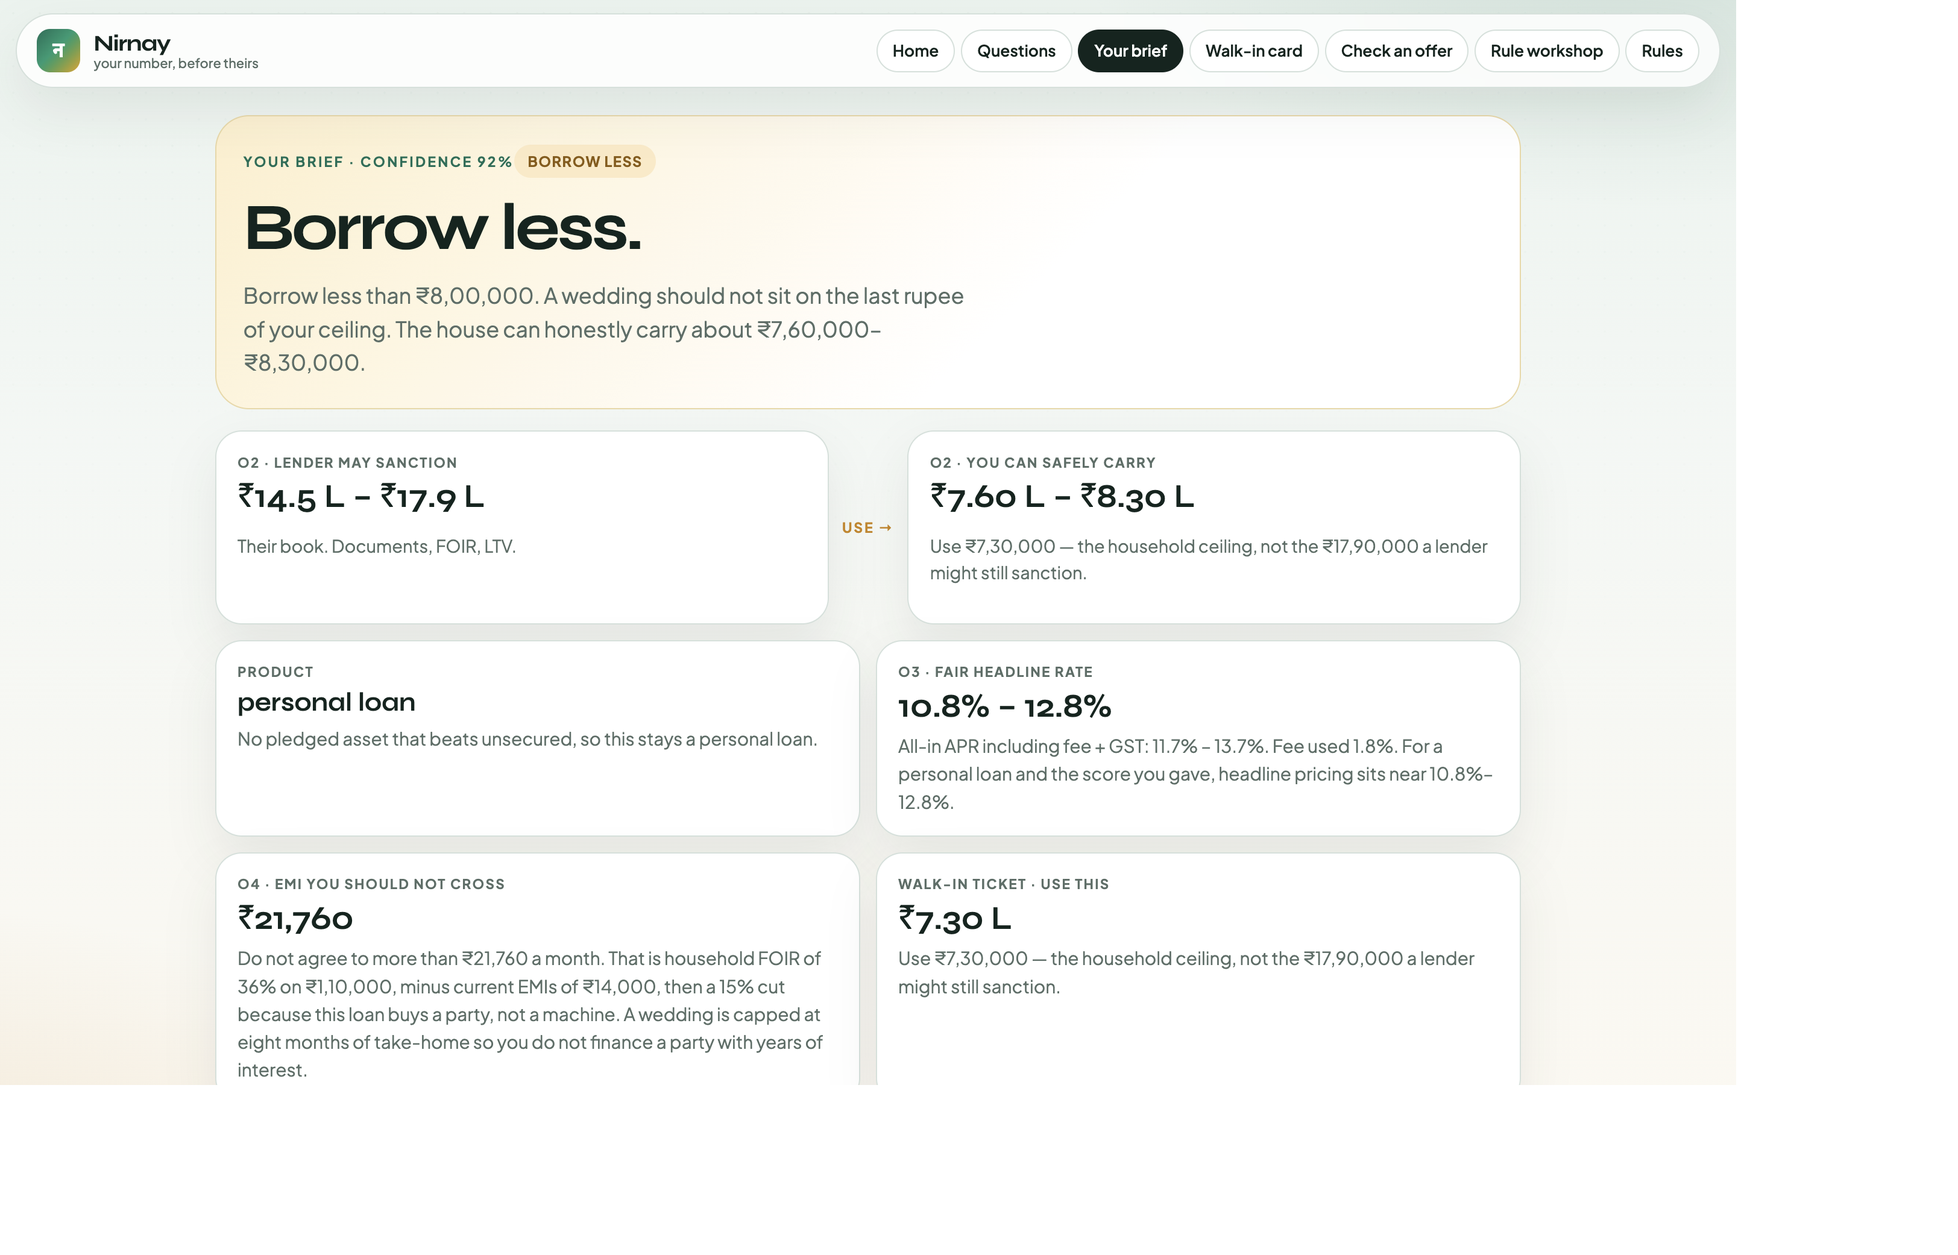
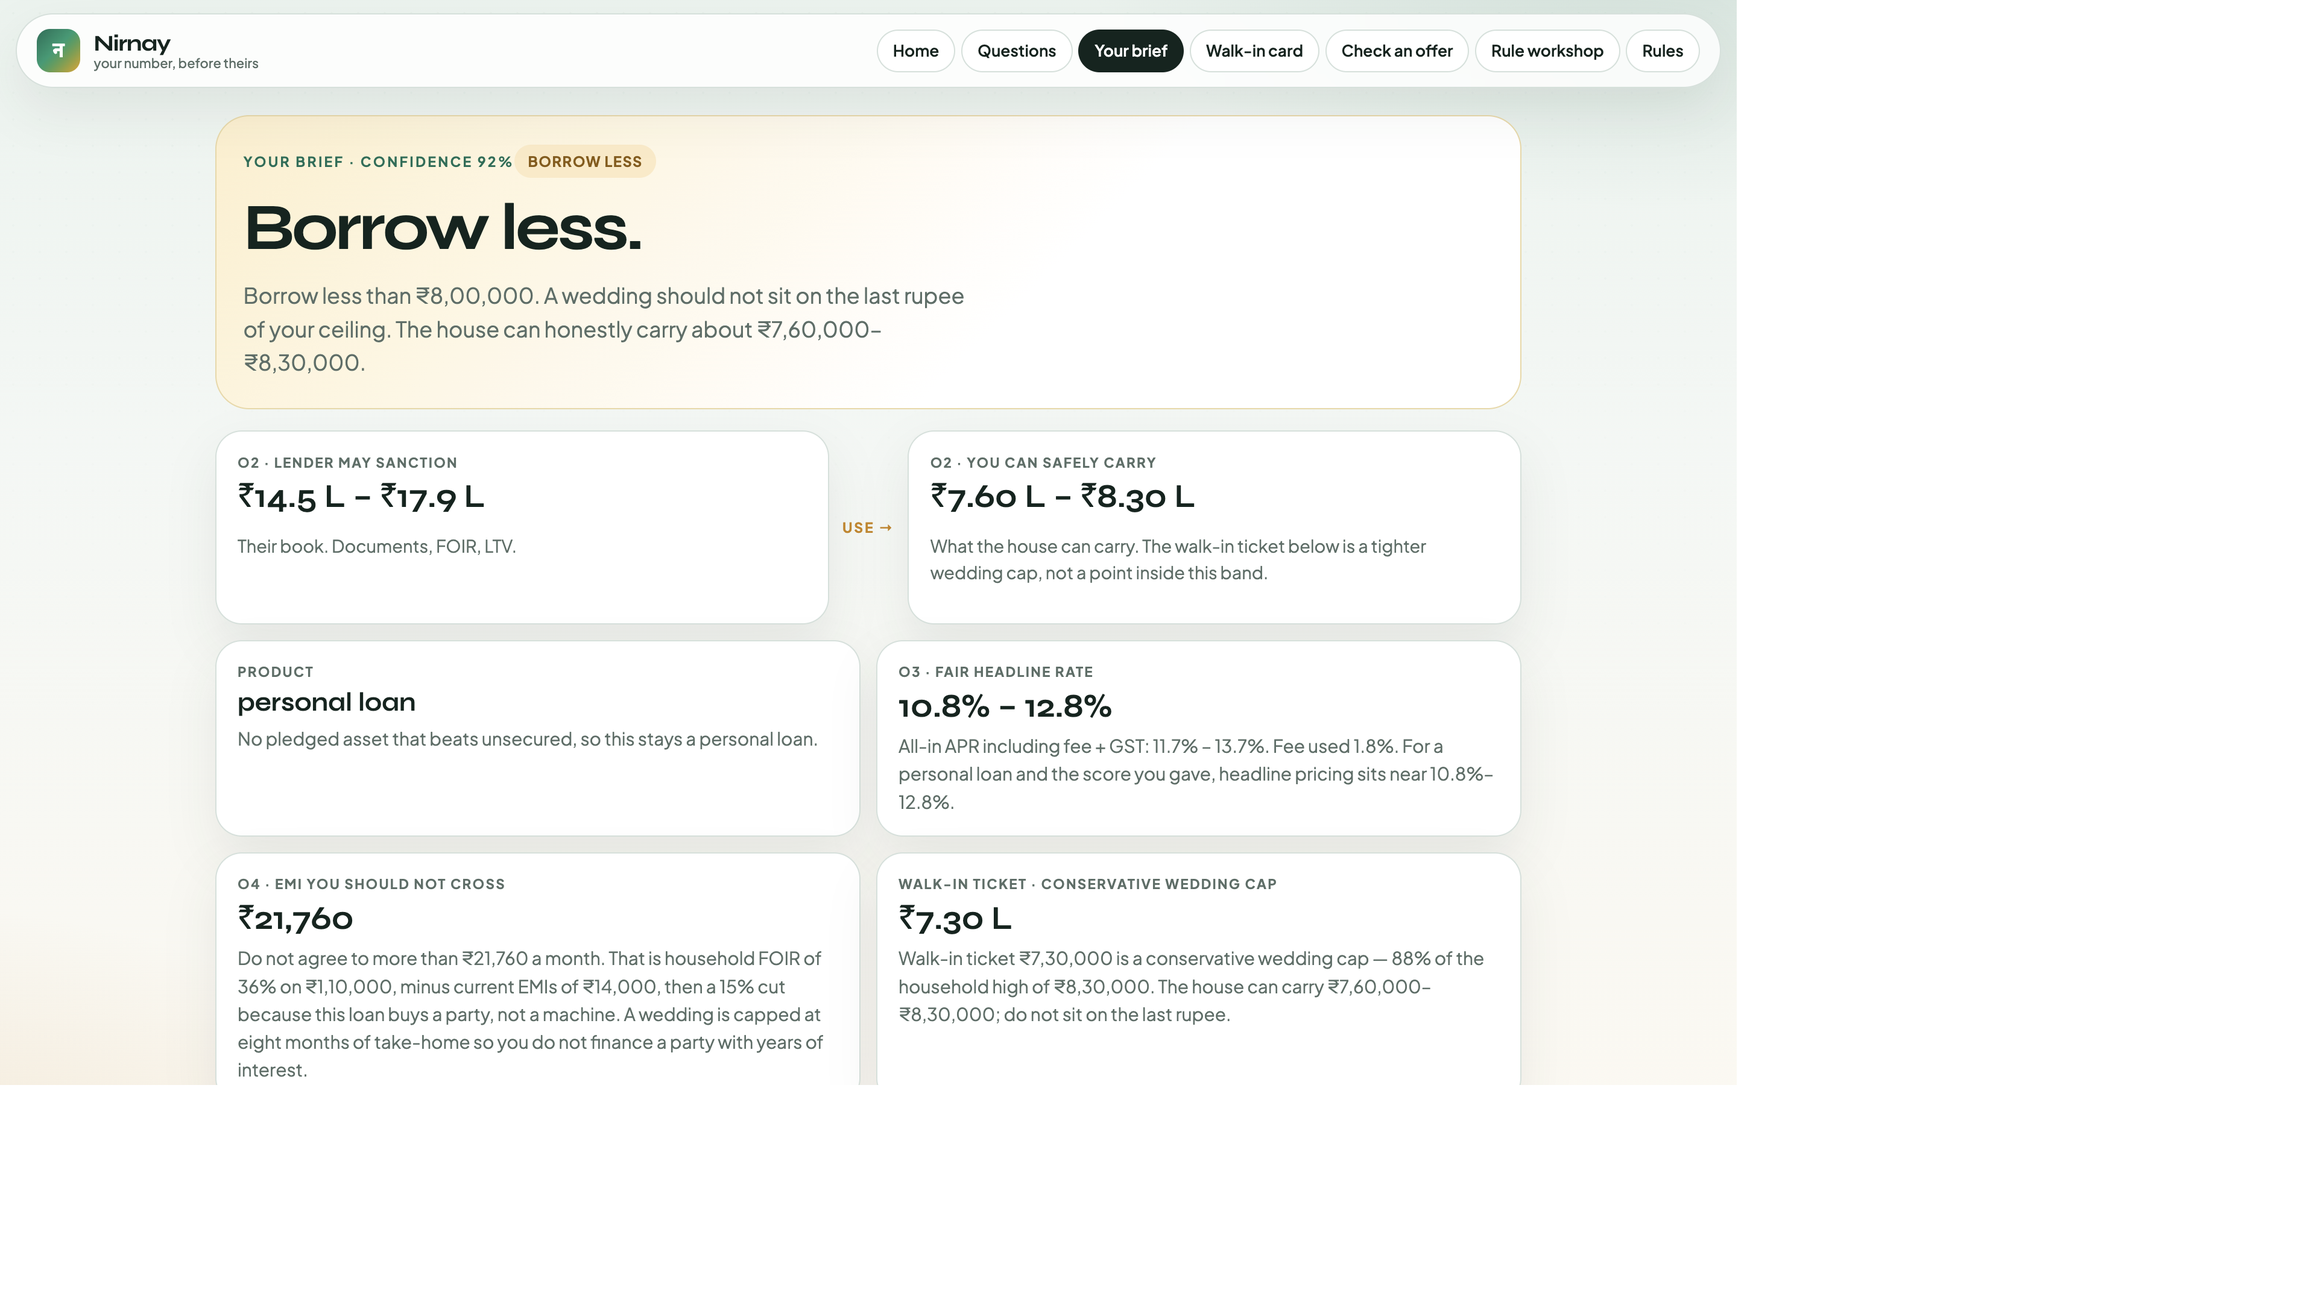
Label Priya’s walk-in ticket as a wedding cap and drop invented Ravi assumptions.
The household band and the conservative ticket were being read as the same number, and Ravi’s demo file had claimed GST registration and a co-applicant the brief never stated.

diff --git a/public/walkthrough.html b/public/walkthrough.html
@@ -3,7 +3,7 @@
   <head>
     <meta charset="UTF-8" />
     <meta name="viewport" content="width=device-width, initial-scale=1" />
-    <title>Nirnay — five-minute walkthrough</title>
+    <title>Nirnay — five-minute guided walkthrough</title>
     <style>
       :root { --ink: #12241f; --muted: #5b6e68; --bg: #eef6f1; }
       * { box-sizing: border-box; }
@@ -23,7 +23,7 @@
   </head>
   <body>
     <header>
-      <h1>Nirnay · five-minute walkthrough</h1>
+      <h1>Nirnay · five-minute guided walkthrough</h1>
       <div class="row">
         <a href="./">Open the live app</a>
       </div>
@@ -44,7 +44,7 @@
         { src: "./screenshots/01-home.png", k: "0:00 · Home", c: "Four outputs in plain words. No login. Open Priya, Ravi or Anita, or start the self-check." },
         { src: "./screenshots/02-questions.png", k: "0:30 · Must questions", c: "Nine must questions. One at a time. A salaried engineer and a kirana owner do not see the same list." },
         { src: "./screenshots/03-extras.png", k: "1:10 · Optional extras", c: "Each extra moves a number. Skip one, or skip the rest. Silence keeps the band wide. It is not a zero." },
-        { src: "./screenshots/04-brief-priya.png", k: "1:50 · Priya · O1–O4", c: "Borrow less. Lender may sanction ₹14–18L. She should use ₹7.3L. Fair rate 10.8–12.8%. EMI ceiling ₹21,760." },
+        { src: "./screenshots/04-brief-priya.png", k: "1:50 · Priya · O1–O4", c: "Borrow less. Lender may sanction ₹14–18L. The house can carry ₹7.6–8.3L; ₹7.3L is a conservative wedding cap below that band. Fair rate 10.8–12.8%. EMI ceiling ₹21,760." },
         { src: "./screenshots/05-card.png", k: "2:30 · Walk-in card", c: "The sentence she holds up at the desk: fair band, APR with fee, ticket, EMI ceiling." },
         { src: "./screenshots/06-offer.png", k: "3:00 · Offer checker", c: "They quote 14%. The checker says a bit high. Ask them to match 12.8% on the Key Facts Statement." },
         { src: "./screenshots/08-brief-ravi.png", k: "3:25 · Ravi", c: "He asked for a personal loan. The file becomes a loan against the shop. Unknown score is a wide band, not 300." },

diff --git a/src/domain/assess.ts b/src/domain/assess.ts
@@ -68,7 +68,7 @@ export function recogniseIncome(a: Answers, knobs: Knobs = defaultKnobs()): {
   whyHousehold: string;
 } {
   const spouse = a.spouseIncome ?? 0;
-  const co = a.coApplicant === true || (a.coApplicant == null && spouse > 0);
+  const co = a.coApplicant === true;
   const spouseL = spouse * (co ? 1 : R.spouseLenderShare);
   const spouseH = spouse * R.spouseHouseShare;
   let extraEarn = 0;
@@ -539,10 +539,13 @@ export function assess(a: Answers, knobs: Knobs = defaultKnobs()): Assessment {
       : verdict === "borrow_less"
         ? roundTicket(Math.min(ask, houseHigh * (consumptionPurpose(a) ? 0.88 : 1)))
         : Math.min(ask, houseHigh);
+  const weddingCap = consumptionPurpose(a) && verdict === "borrow_less" && useAmount < houseLow;
   const useAmountWhy =
     verdict === "dont_borrow"
       ? "Use ₹0. The number you should carry into the branch is zero, even if a counter quotes more."
-      : `Use ${inr(useAmount)} — the household ceiling, not the ${inr(lendHigh)} a lender might still sanction.`;
+      : weddingCap
+        ? `Walk-in ticket ${inr(useAmount)} is a conservative wedding cap — 88% of the household high of ${inr(houseHigh)}. The house can carry ${inr(houseLow)}–${inr(houseHigh)}; do not sit on the last rupee.`
+        : `Use ${inr(useAmount)} — the household ceiling, not the ${inr(lendHigh)} a lender might still sanction.`;
 
   const shownEmi =
     verdict === "dont_borrow" ? 0 : Math.max(0, Math.round(houseRoom / 10) * 10);

diff --git a/src/ui/Brief.tsx b/src/ui/Brief.tsx
@@ -57,7 +57,11 @@ export function Brief({
           <div className="v">
             {inr(result.householdAmount.low, true)} – {inr(result.householdAmount.high, true)}
           </div>
-          <p className="sub">{result.useAmountWhy}</p>
+          <p className="sub">
+            {result.verdict === "borrow_less" && result.useAmount < result.householdAmount.low
+              ? "What the house can carry. The walk-in ticket below is a tighter wedding cap, not a point inside this band."
+              : result.useAmountWhy}
+          </p>
         </article>
       </div>
 
@@ -85,7 +89,11 @@ export function Brief({
           <p className="note">{result.emiCeilingWhy}</p>
         </article>
         <article className="panel out">
-          <div className="k">Walk-in ticket · use this</div>
+          <div className="k">
+            {result.verdict === "borrow_less" && result.useAmount < result.householdAmount.low
+              ? "Walk-in ticket · conservative wedding cap"
+              : "Walk-in ticket · use this"}
+          </div>
           <div className="v">{inr(result.useAmount, true)}</div>
           <p className="note">{result.useAmountWhy}</p>
         </article>

diff --git a/tests/personas.test.ts b/tests/personas.test.ts
@@ -17,6 +17,8 @@ describe("three borrowers", () => {
     expect(priya.householdAmount.high).toBeLessThanOrEqual(8_50_000);
     expect(priya.lenderAmount.high).toBeGreaterThan(priya.householdAmount.high);
     expect(priya.useAmount).toBeLessThan(8_00_000);
+    expect(priya.useAmount).toBeLessThan(priya.householdAmount.low);
+    expect(priya.useAmountWhy).toMatch(/wedding cap/i);
     expect(priya.rate.low).toBeGreaterThanOrEqual(10.5);
     expect(priya.rate.high).toBeLessThan(14.5);
     expect(priya.rate.aprLow).toBeGreaterThan(priya.rate.low);
@@ -36,6 +38,9 @@ describe("three borrowers", () => {
     expect(ravi.rate.low).toBeLessThan(16);
     expect(ravi.confidence).toBeLessThanOrEqual(0.56);
     expect(ravi.income.lender).toBeLessThan(ravi.income.household);
+    expect(PERSONAS[1].answers.gstRegistered).toBeUndefined();
+    expect(PERSONAS[1].answers.coApplicant).toBeUndefined();
+    expect(ravi.income.whyLender).not.toMatch(/GST/i);
   });
 
   it("Anita: don't borrow, scooter is not the product she should take", () => {

diff --git a/src/ui/Workshop.tsx b/src/ui/Workshop.tsx
@@ -154,8 +154,17 @@ export function Workshop({
                   <td>{inr(result.emiCeiling)}</td>
                 </tr>
                 <tr>
-                  <th>Use this ticket</th>
-                  <td>{inr(result.useAmount)}</td>
+                  <th>
+                    {result.verdict === "borrow_less" && result.useAmount < result.householdAmount.low
+                      ? "Walk-in ticket (wedding cap)"
+                      : "Use this ticket"}
+                  </th>
+                  <td>
+                    {inr(result.useAmount)}
+                    {result.verdict === "borrow_less" && result.useAmount < result.householdAmount.low
+                      ? " · conservative cap, below the household band"
+                      : ""}
+                  </td>
                 </tr>
               </tbody>
             </table>

diff --git a/src/ui/NegotiationCard.tsx b/src/ui/NegotiationCard.tsx
@@ -58,7 +58,11 @@ export function NegotiationCard({
             <p>Typical fee used: {pct(result.feePct)} of the ticket.</p>
           </div>
           <div>
-            <p className="k">I will take at most</p>
+            <p className="k">
+              {result.verdict === "borrow_less" && result.useAmount < result.householdAmount.low
+                ? "I will take at most (wedding cap)"
+                : "I will take at most"}
+            </p>
             <p>
               <b>{inr(result.useAmount)}</b>
             </p>

diff --git a/src/domain/questions.ts b/src/domain/questions.ts
@@ -283,7 +283,7 @@ export const QUESTIONS: Question[] = [
     field: "spouseIncome",
     must: false,
     title: "Does a spouse or partner earn? Their monthly take-home.",
-    help: "We count this on the household book, and on the lender book if they can co-apply.",
+    help: "We count 90% on the household book and 65% on the lender book. I do not treat them as a co-applicant unless you say they will sign.",
     moves: ["amount", "emi"],
     kind: "money",
     showIf: (a) => a.workType === "self_employed",

diff --git a/src/domain/personas.ts b/src/domain/personas.ts
@@ -61,14 +61,12 @@ export const PERSONAS: Persona[] = [
       scoreBand: "unknown",
       businessYears: 14,
       itrAnnual: 4_20_000,
-      gstRegistered: true,
       propertyValue: 45_00_000,
       propertyEncumbered: false,
       dependents: 0,
       emergencyMonths: 2,
       bounced12m: false,
       spouseIncome: 18_000,
-      coApplicant: true,
       extraEarn: 18_000,
       cityTier: "tier2",
       goldValue: 0,

diff --git a/RUNTHROUGHS.md b/RUNTHROUGHS.md
@@ -43,7 +43,8 @@ She can skip this whole extra list after the must-set and still get a brief (wid
 |---|---|
 | **O1** | **Borrow less.** A wedding should not sit on the last rupee of the ceiling. |
 | **O2 lender** | ₹14.5 L – ₹17.9 L. A prime MNC file can print a fat personal loan. |
-| **O2 household** | ₹7.6 L – ₹8.3 L. **Use ₹7.3 L.** |
+| **O2 household** | ₹7.6 L – ₹8.3 L — what the house can carry after FOIR, buffers and the 15% wedding haircut on EMI room. |
+| **Walk-in ticket** | **₹7.3 L** — a **conservative wedding cap** (88% of the household high). It is *below* the household band on purpose. A wedding should not sit on the last rupee. |
 | **O3** | Fair headline **10.8% – 12.8%**. All-in APR **11.7% – 13.7%** after 1.5% fee + GST. |
 | **O4** | Do not agree to more than **₹21,760** a month (48-month tenor). |
 
@@ -63,7 +64,7 @@ Stamp: **BORROW LESS** · personal loan
 |---|---|
 | Fair rate | 10.8% – 12.8% |
 | All-in APR (fee + GST) | 11.7% – 13.7% · fee 1.8% |
-| I will take at most | ₹7,30,000 |
+| I will take at most | ₹7,30,000 (conservative wedding cap, below the ₹7.6–8.3L household band) |
 | You may sanction | ₹14,50,000 – ₹17,90,000 |
 | EMI ceiling | ₹21,760 / month · 4 years |
 | Stress | Income −25% eats 42% of a thinner month |
@@ -99,24 +100,26 @@ Wants ₹15,00,000 for a second stock line and a delivery vehicle. He walked in 
 | Years this shop has been running | 14 | Rate notch, vintage |
 | Last ITR profit, for the year | ₹4,20,000 | Lender book (ITR ÷ 12) |
 | Shop / house you could pledge | ₹45,00,000 | Routes him to **LAP** |
-| Spouse monthly take-home | ₹18,000 | Household + lender (co-apply) |
+| Spouse monthly take-home | ₹18,000 (from the brief — she teaches) | Household book at 90%. Lender book at 65%. |
 | Extra the loan will earn each month | ₹18,000 | Household book at 35% |
 
-The demo persona also carries GST-registered = yes as a known fact from the assignment brief (not an extra question). He never saw: employer type, bonus share, card utilisation, bounce, savings (thin-savings haircut does not apply to a LAP).
+I do **not** mark him GST-registered. The brief never says he has a GST file. I do **not** treat his wife as a co-applicant. The brief says she earns; it does not say she will sign. Those two lifts are extra questions I cut, so they stay unanswered — not invented as yes.
+
+He never saw: employer type, bonus share, card utilisation, bounce, savings (thin-savings haircut does not apply to a LAP).
 
 ### Four outputs
 
 | | |
 |---|---|
 | **O1** | **Borrow** — on a **LAP**, not the personal loan he asked for. |
-| **O2 lender** | ₹16.7 L – ₹24.0 L (LTV on the shop, FOIR on ITR + co-applicant). |
+| **O2 lender** | ₹14.0 L – ₹20.1 L (LTV on the shop, FOIR on ITR + 65% of his wife’s pay). |
 | **O2 household** | ₹14.8 L – ₹16.6 L. **Use ₹15,00,000** — the ask fits. |
 | **O3** | **10.5% – 13.8%**. Score unknown, so this is a **wide** band that prices the shop, not a fake 300. All-in APR **10.8% – 14.1%**. Confidence capped at **56%** because there is no bureau. |
 | **O4** | EMI ceiling **₹25,000** on a 108-month tenor. |
 
 **Why LAP.** Unencumbered shop worth ₹45 lakh, ask ₹15 lakh, business purpose. Unsecured would be smaller and costlier. The card says: do not walk in for a personal loan.
 
-**Two books.** Lender uses ITR (₹35,000 a month) plus GST lift plus the wife in full as co-applicant. The house uses a slow cash month (₹40,000) plus 90% of her pay plus 35% of the extra the stock line is supposed to earn. Those are supposed to disagree.
+**Two books.** Lender uses ITR (₹35,000 a month) plus 65% of his wife’s teaching pay. I do not add a GST-file lift and I do not treat her as a co-applicant — the brief never says either. The house uses a slow cash month (₹40,000) plus 90% of her pay plus 35% of the extra the stock line is supposed to earn. Those two books are supposed to disagree.
 
 **Thin savings.** Two months of savings would have haircut an unsecured ticket. On a LAP the shop is the airbag, so I do not apply the same 30% cut. That is a rule I will defend.
 
@@ -131,7 +134,7 @@ Stamp: **BORROW** · loan against property (shop)
 | Fair rate | 10.5% – 13.8% · unknown score, wide band, not 300 |
 | All-in APR (fee + GST) | 10.8% – 14.1% · fee 1.2% |
 | I will take at most | ₹15,00,000 |
-| You may sanction | ₹16,70,000 – ₹24,00,000 |
+| You may sanction | ₹14,00,000 – ₹20,10,000 |
 | EMI ceiling | ₹25,000 / month · 9 years |
 | Product | LAP — do not walk in for a personal loan |
 
@@ -202,7 +205,7 @@ Stamp: **DON’T BORROW** · two-wheeler
 
 ## What the three together prove
 
-- Lender amount and household amount are different for all three. Priya could be sold ~₹16 lakh and should use ~₹7.3 lakh. Ravi could be sold more LAP than ₹15 lakh and should still use ₹15 lakh. Anita could be sold a scooter and should use ₹0.
+- Lender amount and household amount are different for all three. Priya could be sold ~₹16 lakh; the house can carry ~₹7.6–8.3 lakh and the walk-in ticket is ₹7.3 lakh as a wedding cap. Ravi could be sold more LAP than ₹15 lakh and should still use ₹15 lakh. Anita could be sold a scooter and should use ₹0.
 - Don’t borrow fires (Anita). Borrow less fires (Priya). Borrow fires (Ravi) only after the product is made honest (LAP).
 - Unknown score (Ravi, Anita) is a wide band with a confidence cap. It is not 300.
 - Adaptive questions: three different lists.

diff --git a/README.md b/README.md
@@ -43,7 +43,7 @@ npm run build     # production build
 
 Nothing is stored on a server. Answers sit in `sessionStorage` on this browser only, and vanish when the tab does.
 
-**Five-minute video:** [nirnay-mu.vercel.app/walkthrough.html](https://nirnay-mu.vercel.app/walkthrough.html)
+**Five-minute guided walkthrough:** [nirnay-mu.vercel.app/walkthrough.html](https://nirnay-mu.vercel.app/walkthrough.html)
 
 ---
 
@@ -277,7 +277,7 @@ flowchart TD
 | **Lender amount** | FOIR on *documented* income (payslip or ITR), LTV on pledged asset | What you should take |
 | **Household amount** | FOIR on *cash the kitchen actually sees*, plus buffers and haircuts | The RM’s monthly target |
 
-Priya: a prime MNC file can print ₹14–18L. The house should use ~₹7.3L.
+Priya: a prime MNC file can print ₹14–18L. The house can carry ~₹7.6–8.3L; the walk-in ticket is ₹7.3L — a conservative wedding cap, not a point inside that band.
 Ravi: the branch uses ITR ÷ 12 and the shop. He lives on a slow month at the till.
 Anita: a scooter counter can still quote ₹70k–₹1.2L. Household is **₹0**.
 
@@ -341,7 +341,7 @@ borrower-copilot/
 ├── README.md          setup, features, architecture, screenshots, assumptions, live link
 ├── RULES.md           every threshold · rate band · FOIR · safety limit · assumption
 ├── RUNTHROUGHS.md     Priya, Ravi, Anita — questions, four outputs, negotiation cards
-├── WALKTHROUGH.md     five-minute video, design decisions, limits, next / cut
+├── WALKTHROUGH.md     five-minute guided walkthrough, design decisions, limits, next / cut
 ├── package.json
 ├── src/               app + engine
 ├── public/            favicon, screenshots, walkthrough player

diff --git a/WALKTHROUGH.md b/WALKTHROUGH.md
@@ -1,9 +1,9 @@
-# Five-minute walkthrough
+# Five-minute guided walkthrough
 
-**Video:** [nirnay-mu.vercel.app/walkthrough.html](https://nirnay-mu.vercel.app/walkthrough.html)  
+**Guided walkthrough:** [nirnay-mu.vercel.app/walkthrough.html](https://nirnay-mu.vercel.app/walkthrough.html)  
 **Live app:** [nirnay-mu.vercel.app](https://nirnay-mu.vercel.app)
 
-The player is a timed tour of the same screens you would click in five minutes. Pause it. Open the live app in another tab and follow along.
+The player is a timed screenshot tour of the same screens you would click in five minutes — a written walkthrough you can replay, not a filmed video. Pause it. Open the live app in another tab and follow along. The challenge allows a written walkthrough; this is that.
 
 ---
 
@@ -25,7 +25,7 @@ Four numbered blocks. Two amounts are visually twins so you cannot miss that the
 
 Ochre notes are guesses. I tell you what I do not know.
 
-**Priya in one line:** borrow less than ₹8L. Use ~₹7.3L. Fair 10.8–12.8%. EMI ceiling ₹21,760.
+**Priya in one line:** borrow less than ₹8L. Household band ~₹7.6–8.3L; walk-in ticket ₹7.3L is a conservative wedding cap. Fair 10.8–12.8%. EMI ceiling ₹21,760.
 
 Then open **Ravi**: personal-loan ask becomes a shop LAP. Unknown score is a wide band, not 300. Use ₹15L.
 
